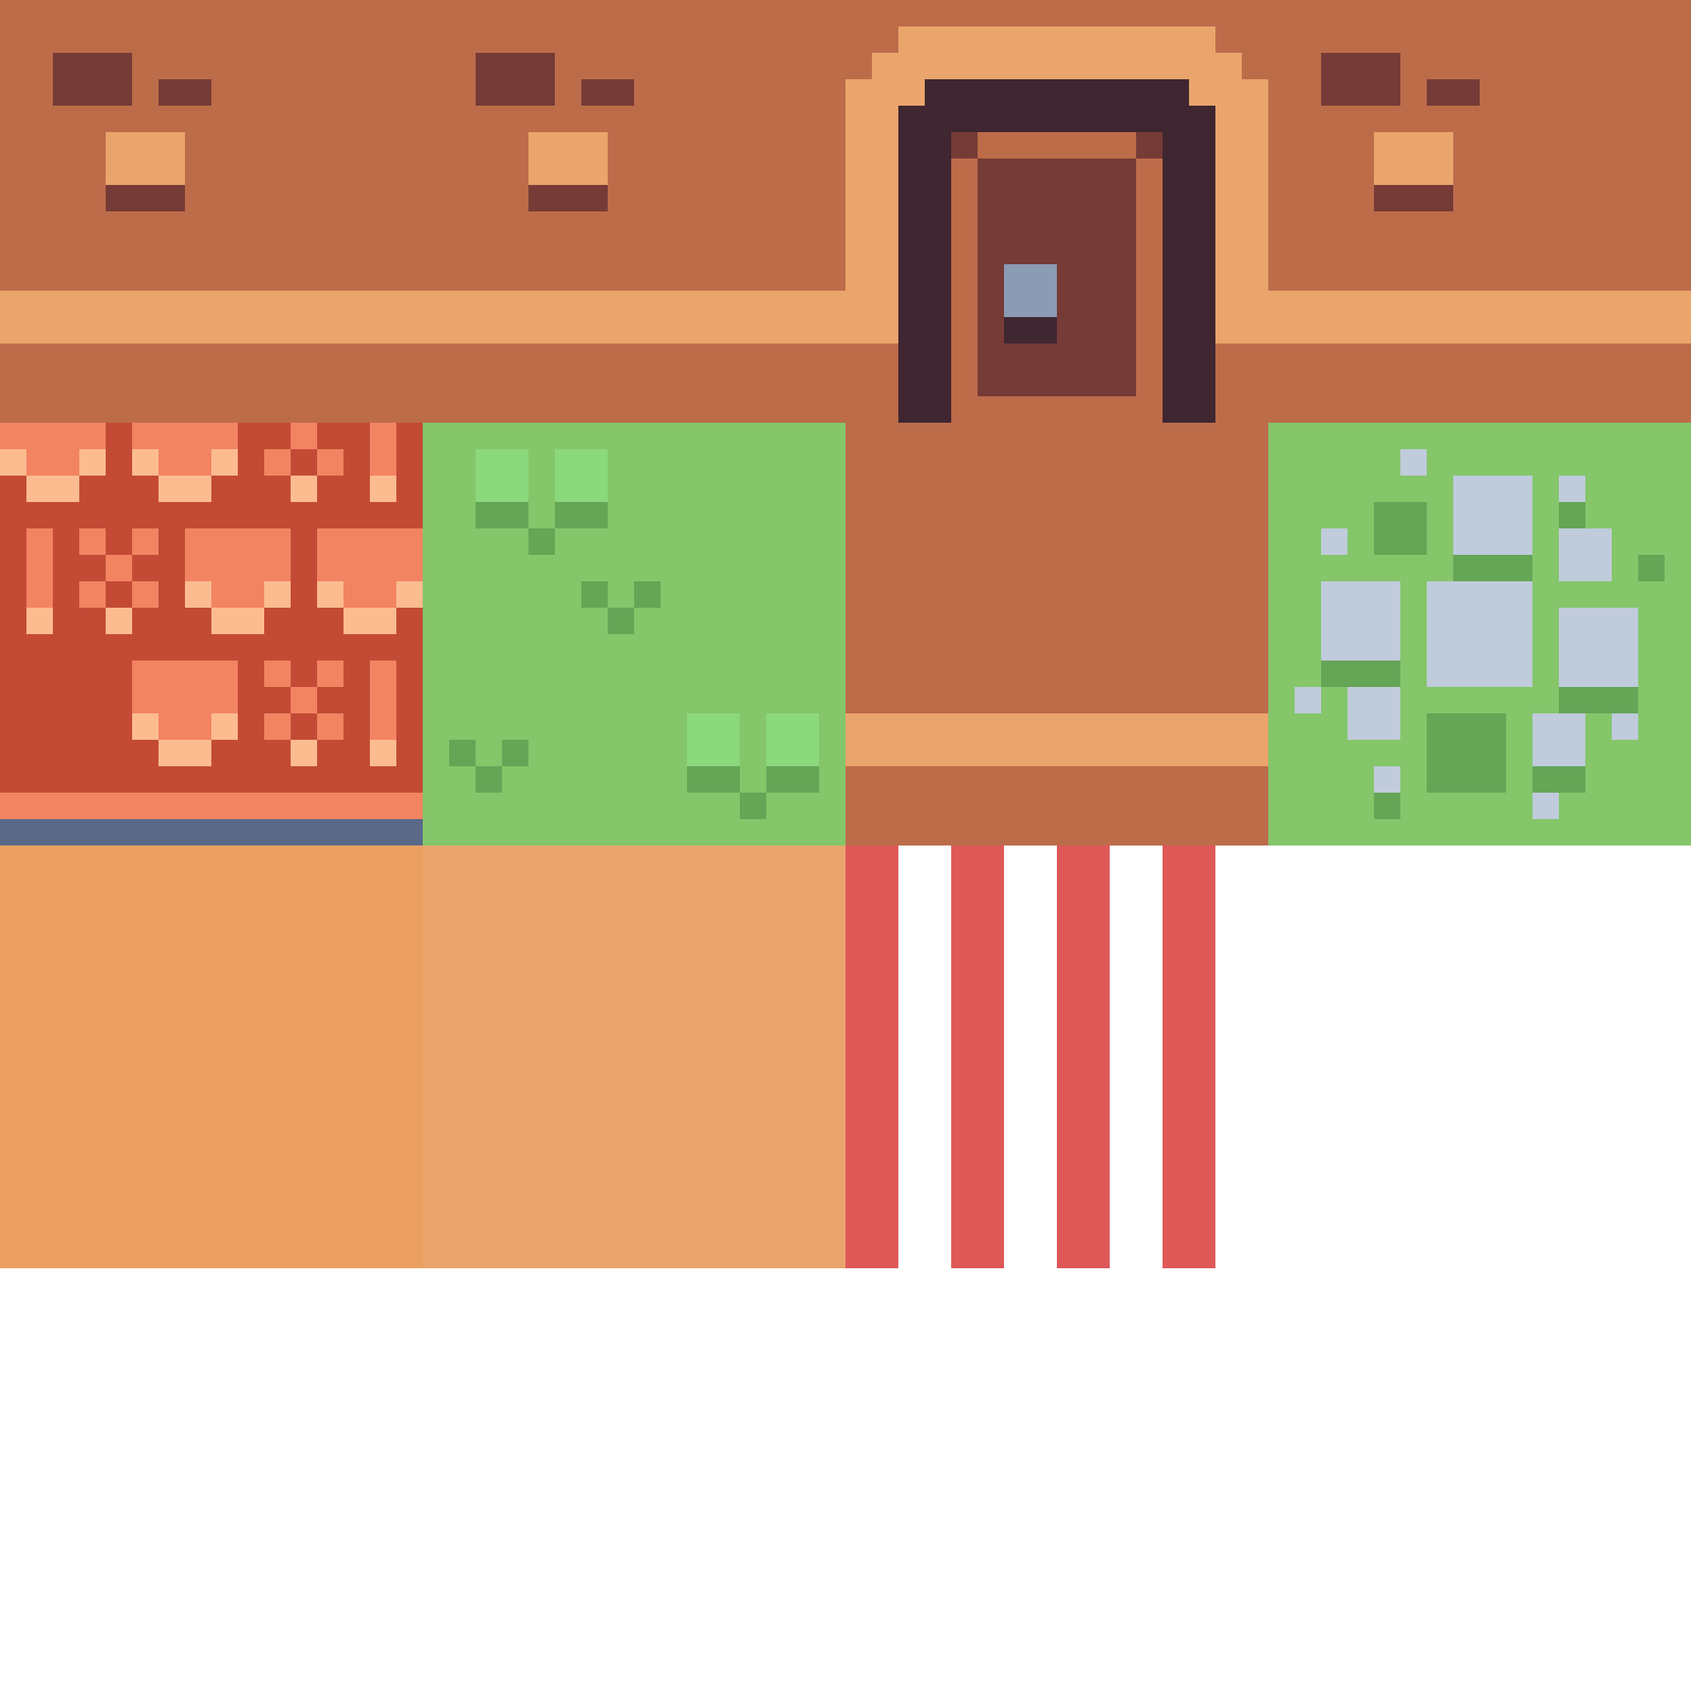
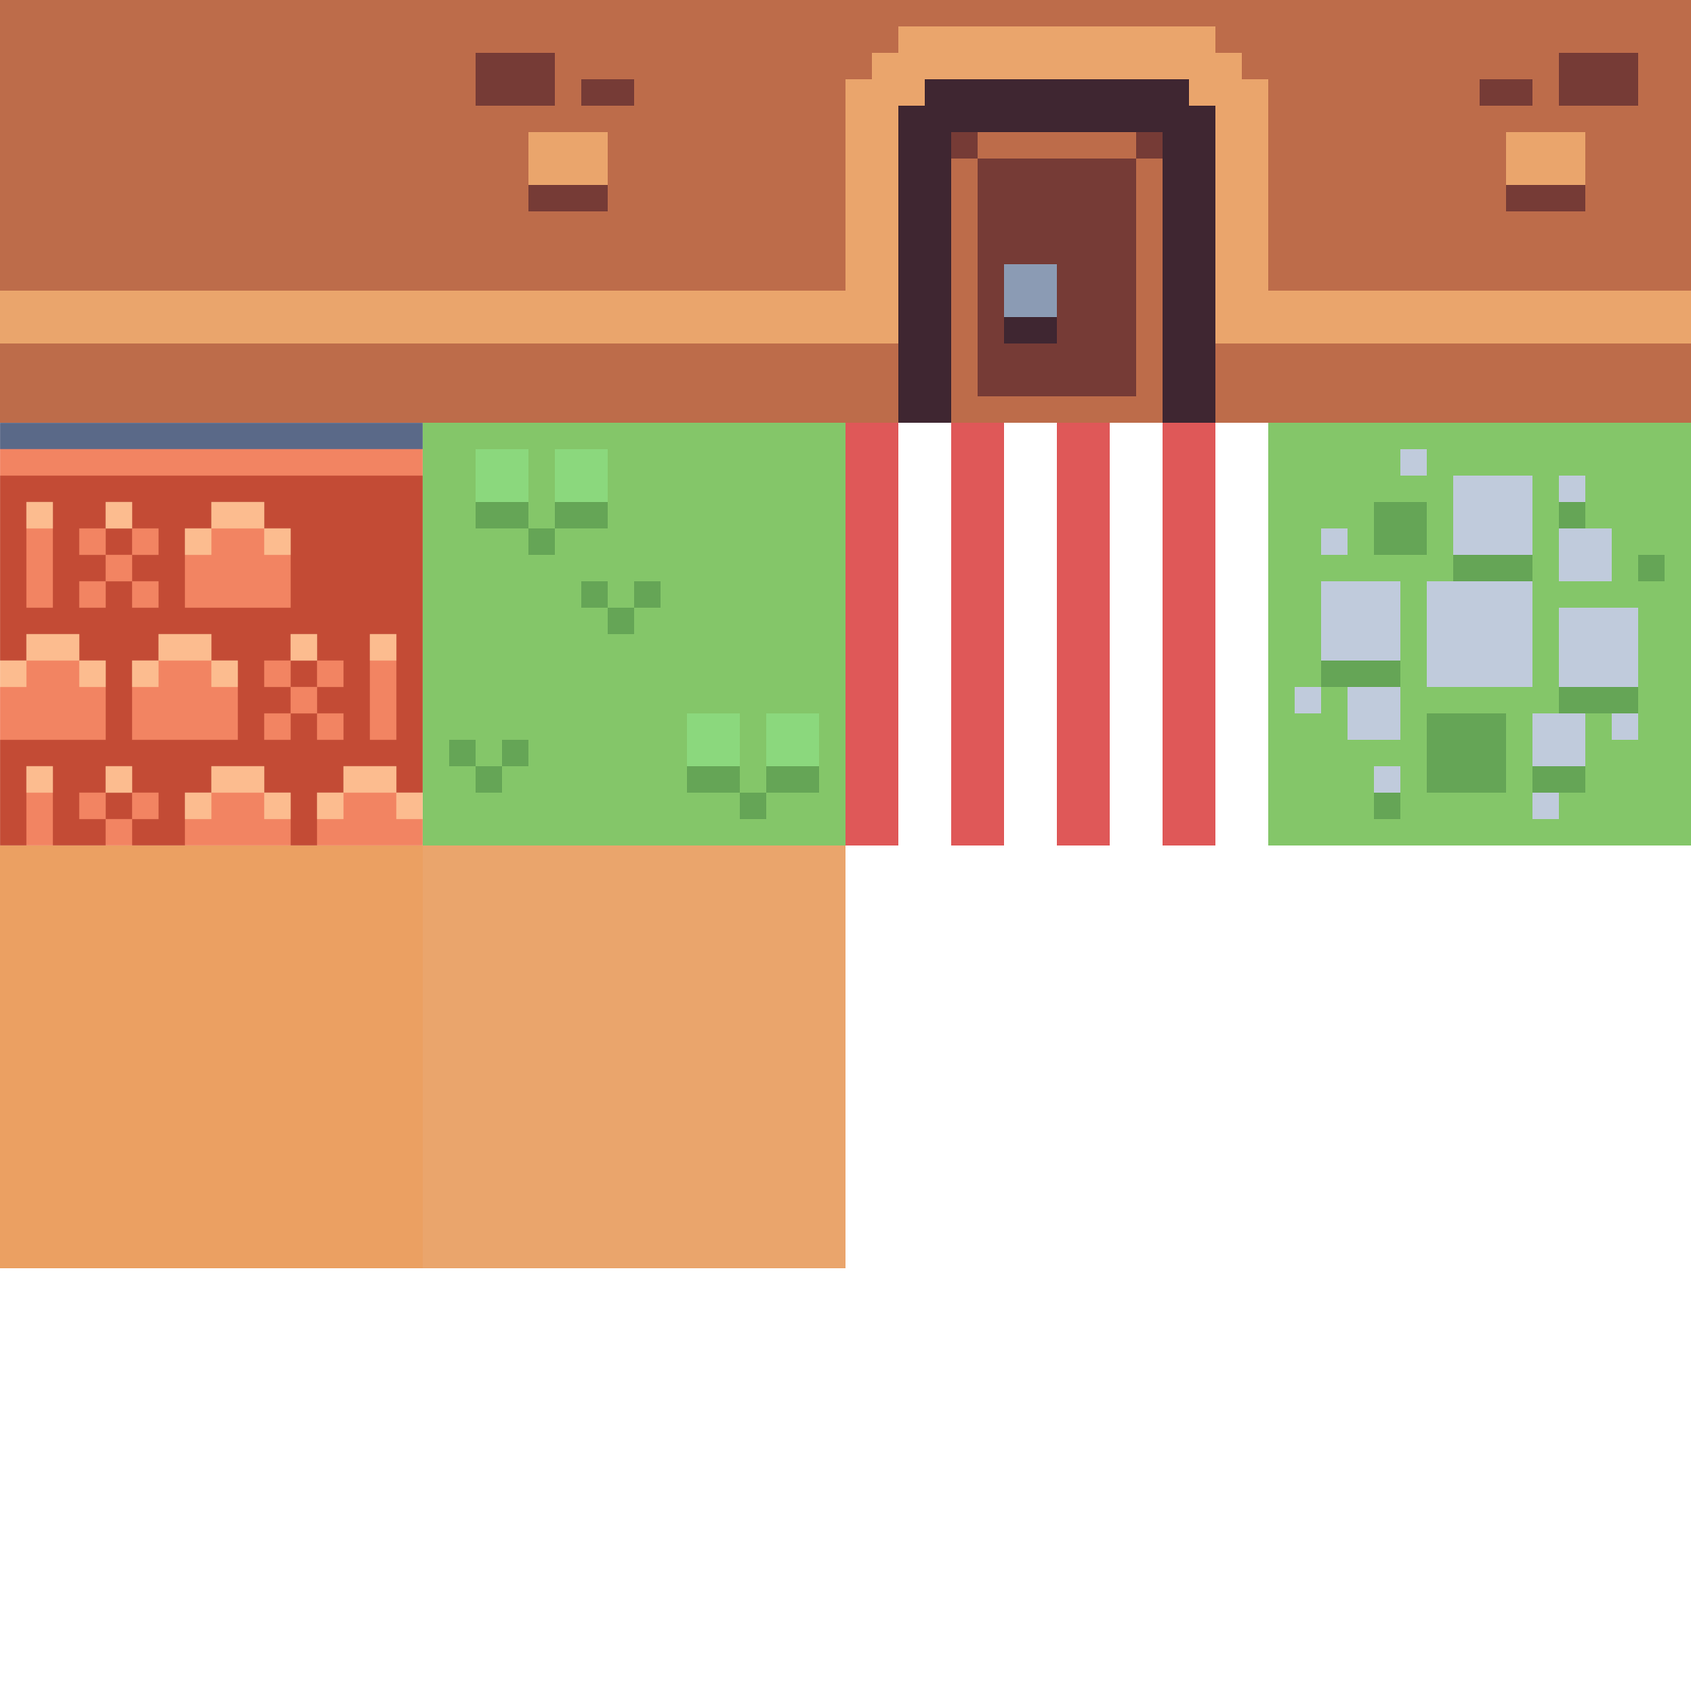
klar

diff --git a/Assets/Pieces/Path.cs b/Assets/Pieces/Path.cs
@@ -150,10 +150,14 @@ public partial class TileBuilder
         InvertedCorner(ref builder, new(0f, 0f, 0.175f, 0.175f), 3);
     }
     
-    private void PizzaSlices(ref MeshBuilder builder, int numSlices, float startAngle) {
-        
+    private void PizzaSlices(ref MeshBuilder builder, int numSlices, float startAngle)
+    {
+
+        int counter = 0;
         for (float i = startAngle - 22.5f; i < startAngle - 22.5f + numSlices * 45 ; i += 45)
         {
+            
+            
             builder.VertexMatrix = Matrix4x4.Rotate(Quaternion.AngleAxis(i, Vector3.up));
             builder.TextureMatrix =
                 Matrix4x4.Translate(new(0f, 0.25f, 0f)) *
@@ -172,10 +176,12 @@ public partial class TileBuilder
 
             Vector3 normalInner = Vector3.Cross(-tangentInner, binormalInner);
 
-            int a = builder.AddVertex(bottomLeftInner, normalInner, new(0, 0), 0.02f);
-            int b = builder.AddVertex(topLeftInner, normalInner, new(0, 1), 0.02f);
-            int c = builder.AddVertex(topRightInner, normalInner, new(1, 1), 0.02f);
-            int d = builder.AddVertex(bottomRightInner, normalInner, new(1, 0), 0.02f);
+            float aspectInner = 0.115f;
+            
+            int a = builder.AddVertex(bottomLeftInner, normalInner, new(0, 0));
+            int b = builder.AddVertex(topLeftInner, normalInner, new(0, aspectInner));
+            int c = builder.AddVertex(topRightInner, normalInner, new(1, aspectInner));
+            int d = builder.AddVertex(bottomRightInner, normalInner, new(1, 0));
 
             builder.AddQuad(a, b, c, d);
 
@@ -189,17 +195,21 @@ public partial class TileBuilder
 
             Vector3 normalOuter = Vector3.Cross(tangentOuter, binormalOuter);
 
-            int e = builder.AddVertex(bottomRightOuter, normalOuter, new(0, 0), 0.02f);
-            int f = builder.AddVertex(topRightOuter, normalOuter, new(0, 1), 0.02f);
-            int g = builder.AddVertex(topLeftOuter, normalOuter, new(1, 1), 0.02f);
-            int h = builder.AddVertex(bottomLeftOuter, normalOuter, new(1, 0), 0.02f);
+            float aspectOuter = 0.138f;
+            
+            int e = builder.AddVertex(bottomRightOuter, normalOuter, new(0, 0));
+            int f = builder.AddVertex(topRightOuter, normalOuter, new(0, aspectOuter));
+            int g = builder.AddVertex(topLeftOuter, normalOuter, new(1, aspectOuter));
+            int h = builder.AddVertex(bottomLeftOuter, normalOuter, new(1, 0));
 
             builder.AddQuad(e, f, g, h);
 
-            int ii = builder.AddVertex(topRightInner, new(0, 1, 0), new(0, 0), 0.02f);
-            int j = builder.AddVertex(topLeftInner, new(0, 1, 0), new(0, 1), 0.02f);
-            int k = builder.AddVertex(topLeftOuter, new(0, 1, 0), new(1, 1), 0.02f);
-            int l = builder.AddVertex(topRightOuter, new(0, 1, 0), new(1, 0), 0.02f);
+            float aspectTop = 0.119f;
+            
+            int ii = builder.AddVertex(topRightInner, new(0, 1, 0), new(0, 0));
+            int j = builder.AddVertex(topLeftInner, new(0, 1, 0), new(0, 1));
+            int k = builder.AddVertex(topLeftOuter, new(0, 1, 0), new(aspectTop, 1));
+            int l = builder.AddVertex(topRightOuter, new(0, 1, 0), new(aspectTop, 0));
 
             builder.AddQuad(ii, j, k, l);
 
@@ -208,11 +218,24 @@ public partial class TileBuilder
                 Matrix4x4.Scale(new(0.25f, 0.25f, 1))
                 ;
 
-            int m = builder.AddVertex(new(0, 0.0001f, 0), new(0, 1, 0), new(0, 0), 0.02f);
-            int n = builder.AddVertex(bottomLeftOuter, new(0, 1, 0), new(0, 1), 0.02f);
-            int o = builder.AddVertex(bottomRightOuter, new(0, 1, 0), new(1, 1), 0.02f);
+            float angle1 = (90 - (counter * 45)) * Mathf.Deg2Rad;
+            float angle2 = (45 - (counter * 45)) * Mathf.Deg2Rad;
+
+            Vector2 uvbl = new Vector2(Mathf.Cos(angle1) / 2, Mathf.Sin(angle1) / 2);
+            Vector2 uvbr = new Vector2(Mathf.Cos(angle2) / 2, Mathf.Sin(angle2) / 2);
+            
+            Matrix4x4 adjust = Matrix4x4.Translate(new(0.5f, 0.5f));
+            
+            
+            int m = builder.AddVertex(new(0, 0.0001f, 0), new(0, 1, 0), new(0.5f, 0.5f));
+            int n = builder.AddVertex(bottomLeftInner, new(0, 1, 0), adjust.MultiplyPoint(uvbl));
+            int o = builder.AddVertex(bottomRightInner, new(0, 1, 0), adjust.MultiplyPoint(uvbr));
 
             builder.AddTriangle(m, n, o);
+            
+            
+            
+            counter++;
         }
     }
 
@@ -228,7 +251,7 @@ public partial class TileBuilder
             Matrix4x4.Translate(new(rect.x, 0.0001f, rect.y)) *
             Matrix4x4.Scale(new(rect.width, 1f, rect.height))
             ;
-        Quad floor = Square1x1(ref builder, 0.02f);
+        Quad floor = Square1x1(ref builder, rect.width / rect.height);
         builder.AddQuad(floor);
 
         // walls
@@ -268,22 +291,25 @@ public partial class TileBuilder
 
             Vector3 normalOuter = Vector3.Cross(-tangentOuter, binormalOuter);
 
-            int a = builder.AddVertex(bottomLeftInner, normalInner, new(0, 0), 0.02f);
-            int b = builder.AddVertex(topLeftInner, normalInner, new(0, 1), 0.02f);
-            int c = builder.AddVertex(topRightInner, normalInner, new(1, 1), 0.02f);
-            int d = builder.AddVertex(bottomRightInner, normalInner, new(1, 0), 0.02f);
+            float aspectSides = rect.width / 0.012f;
+            float aspectTop = rect.width / 0.02f;
+            
+            int a = builder.AddVertex(bottomLeftInner, normalInner, new(0, 0));
+            int b = builder.AddVertex(topLeftInner, normalInner, new(0, 1 / aspectSides));
+            int c = builder.AddVertex(topRightInner, normalInner, new(1, 1 / aspectSides));
+            int d = builder.AddVertex(bottomRightInner, normalInner, new(1, 0));
             builder.AddQuad(d, c, b, a);
 
-            int e = builder.AddVertex(bottomRightOuter, normalOuter, new(1, 0), 0.02f);
-            int f = builder.AddVertex(topRightOuter, normalOuter, new(1, 1), 0.02f);
-            int g = builder.AddVertex(topLeftOuter, normalOuter, new(0, 1), 0.02f);
-            int h = builder.AddVertex(bottomLeftOuter, normalOuter, new(0, 0), 0.02f);
+            int e = builder.AddVertex(bottomRightOuter, normalOuter, new(1, 0));
+            int f = builder.AddVertex(topRightOuter, normalOuter, new(1, 1 / aspectSides));
+            int g = builder.AddVertex(topLeftOuter, normalOuter, new(0, 1 / aspectSides));
+            int h = builder.AddVertex(bottomLeftOuter, normalOuter, new(0, 0));
             builder.AddQuad(h, g, f, e);
 
-            int ii = builder.AddVertex(topLeftInner, Vector3.up, new(1, 0), 0.02f);
-            int j = builder.AddVertex(topLeftOuter, Vector3.up, new(1, 1), 0.02f);
-            int k = builder.AddVertex(topRightOuter, Vector3.up, new(0, 1), 0.02f);
-            int l = builder.AddVertex(topRightInner, Vector3.up, new(0, 0), 0.02f);
+            int ii = builder.AddVertex(topLeftInner, Vector3.up, new(1, 0));
+            int j = builder.AddVertex(topLeftOuter, Vector3.up, new(1, 1 / aspectTop));
+            int k = builder.AddVertex(topRightOuter, Vector3.up, new(0, 1 / aspectTop));
+            int l = builder.AddVertex(topRightInner, Vector3.up, new(0, 0));
             builder.AddQuad(l, k, j, ii);
 
         }
@@ -301,7 +327,7 @@ public partial class TileBuilder
             Matrix4x4.Translate(new(rect.x, 0.0001f, rect.y)) *
             Matrix4x4.Scale(new(rect.width, 1f, rect.height))
             ;
-        Quad floor = Square1x1(ref builder, 0.02f);
+        Quad floor = Square1x1(ref builder);
         builder.AddQuad(floor);
         
         // Wall
@@ -322,15 +348,15 @@ public partial class TileBuilder
 
         Vector3 normal = Vector3.Cross(-tangent, binormal);
         
-        int a = builder.AddVertex(bottomLeft, normal, new(0, 0), 0.02f);
-        int b = builder.AddVertex(topLeft, normal, new(0, 1), 0.02f);
-        int c = builder.AddVertex(topRight, normal, new(1, 1), 0.02f);
-        int d = builder.AddVertex(bottomRight, normal, new(1, 0), 0.02f);
+        int a = builder.AddVertex(bottomLeft, normal, new(0, 0));
+        int b = builder.AddVertex(topLeft, normal, new(0, 0.012f));
+        int c = builder.AddVertex(topRight, normal, new(0.042f, 0.012f));
+        int d = builder.AddVertex(bottomRight, normal, new(0.042f, 0));
         builder.AddQuad(a, b, c, d);
-
-        int e = builder.AddVertex(topLeft, Vector3.up, new(0, 0), 0.02f);
-        int f = builder.AddVertex(new(rect.width, 0.01f, rect.height), Vector3.up, new(0, 1), 0.02f);
-        int g = builder.AddVertex(topRight, Vector3.up, new(1, 0), 0.02f);
+        
+        int e = builder.AddVertex(topLeft, Vector3.up, new(0, 0));
+        int f = builder.AddVertex(new(rect.width, 0.01f, rect.height), Vector3.up, new(0, 0.02f));
+        int g = builder.AddVertex(topRight, Vector3.up, new(0.02f, 0));
         
         builder.AddTriangle(e, f, g);
 

diff --git a/Assets/Pieces/Market.cs b/Assets/Pieces/Market.cs
@@ -43,12 +43,12 @@ public partial class TileBuilder
             Matrix4x4.Translate(position) *
             Matrix4x4.Rotate(Quaternion.AngleAxis(rotation, Vector3.down));
         builder.TextureMatrix =
-            Matrix4x4.Translate(new(0.5f, 0.625f)) *
+            Matrix4x4.Translate(new(0f, 0.875f)) *
             Matrix4x4.Scale(new(0.25f, 0.125f));
         
         int a = builder.AddVertex(new(-0.15f, 0f, -0.075f), Vector3.back, new(0, 0));
-        int b = builder.AddVertex(new(-0.15f, 0.05f, -0.075f), Vector3.back, new(0, 1));
-        int c = builder.AddVertex(new(0.15f, 0.05f, -0.075f), Vector3.back, new(1, 1));
+        int b = builder.AddVertex(new(-0.15f, 0.05f, -0.075f), Vector3.back, new(0, 0.33f));
+        int c = builder.AddVertex(new(0.15f, 0.05f, -0.075f), Vector3.back, new(1, 0.33f));
         int d = builder.AddVertex(new(0.15f, 0f, -0.075f), Vector3.back, new(1, 0));
         
         builder.AddDualFacedQuad(a, b, c, d);
@@ -56,8 +56,8 @@ public partial class TileBuilder
         
         // top board
         int e = builder.AddVertex(new(-0.15f, 0.05f, -0.075f), Vector3.up, new(0, 0));
-        int f = builder.AddVertex(new(-0.15f, 0.05f, -0.01f), Vector3.up, new(0, 1));
-        int g = builder.AddVertex(new(0.15f, 0.05f, -0.01f), Vector3.up, new(1, 1));
+        int f = builder.AddVertex(new(-0.15f, 0.05f, -0.01f), Vector3.up, new(0, 0.43f));
+        int g = builder.AddVertex(new(0.15f, 0.05f, -0.01f), Vector3.up, new(1, 0.43f));
         int h = builder.AddVertex(new(0.15f, 0.05f, -0.075f), Vector3.up, new(1, 0));
 
         builder.AddDualFacedQuad(e, f, g, h);
@@ -66,8 +66,8 @@ public partial class TileBuilder
         for (int i = -1; i < 2; i += 2)
         {
             int ii = builder.AddVertex(new(-0.15f * i, 0f, 0.075f), Vector3.left, new(0, 0));
-            int j = builder.AddVertex(new(-0.15f * i, 0.05f, 0.075f), Vector3.left, new(0, 1));
-            int k = builder.AddVertex(new(-0.15f * i, 0.05f, -0.075f), Vector3.left, new(1, 1));
+            int j = builder.AddVertex(new(-0.15f * i, 0.05f, 0.075f), Vector3.left, new(0, 0.66f));
+            int k = builder.AddVertex(new(-0.15f * i, 0.05f, -0.075f), Vector3.left, new(1, 0.66f));
             int l = builder.AddVertex(new(-0.15f * i, 0f, -0.075f), Vector3.left, new(1, 0));
             builder.AddDualFacedQuad(ii, j, k, l);
         }
@@ -75,7 +75,7 @@ public partial class TileBuilder
         
         // awning
         builder.TextureMatrix = 
-            Matrix4x4.Translate(new(0.5f, 0.25f)) *
+            Matrix4x4.Translate(new(0.5f, 0.5f)) *
             Matrix4x4.Scale(new(0.25f, 0.25f));
         
         Vector3 awningBL = new(-0.18f, 0.13f, 0.1f);
@@ -89,14 +89,14 @@ public partial class TileBuilder
 
 
         int m = builder.AddVertex(awningBL, normal, new(0, 0));
-        int n = builder.AddVertex(awningTL, normal, new(0, 1));
-        int o = builder.AddVertex(awningTR, normal, new(1, 1));
+        int n = builder.AddVertex(awningTL, normal, new(0, 0.566f));
+        int o = builder.AddVertex(awningTR, normal, new(1, 0.566f));
         int p = builder.AddVertex(awningBR, normal, new(1, 0));
 
         builder.AddDualFacedQuad(m, n, o, p);
         
         builder.TextureMatrix =
-            Matrix4x4.Translate(new(0.5f, 0.625f)) *
+            Matrix4x4.Translate(new(0f, 0.875f)) *
             Matrix4x4.Scale(new(0.25f, 0.125f));
         
         Pole(ref builder, new(-0.15f, 0, -0.075f), 0.164f);
@@ -116,8 +116,8 @@ public partial class TileBuilder
             builder.VertexMatrix = Matrix4x4.Rotate(Quaternion.AngleAxis(-90 * i, Vector3.up));
             int a = builder.AddVertex(new(-0.003f, 0f, -0.003f), Vector3.back, new(0, 0));
             int b = builder.AddVertex(new(-0.003f, height, -0.003f), Vector3.back, new(0, 1));
-            int c = builder.AddVertex(new(0.003f, height, -0.003f), Vector3.back, new(1, 1));
-            int d = builder.AddVertex(new(0.003f, 0f, -0.003f), Vector3.back, new(1, 0));
+            int c = builder.AddVertex(new(0.003f, height, -0.003f), Vector3.back, new(0.006f / height, 1));
+            int d = builder.AddVertex(new(0.003f, 0f, -0.003f), Vector3.back, new(0.006f / height, 0));
             builder.AddQuad(a, b, c, d);
         }
         builder.CloseVertexGroup();

diff --git a/Assets/Pieces/House.cs b/Assets/Pieces/House.cs
@@ -38,15 +38,15 @@ public partial class TileBuilder
         {
             builder.VertexMatrix = 
                 Matrix4x4.Rotate(Quaternion.AngleAxis(i * 180, Vector3.up)) *
-                Matrix4x4.Translate(new(-0.25f, 0.2f, -0.25f)) *
+                Matrix4x4.Translate(new(0f, 0.45f, -0.25f)) *
                 Matrix4x4.Rotate(Quaternion.AngleAxis(45, Vector3.forward)) *
-                Matrix4x4.Scale(new(0.25f * Mathf.Sqrt(2), 1, 0.5f));
-            builder.TextureMatrix = 
-                Matrix4x4.Translate(new(0.25f, 0.5f, 0f)) *
-                Matrix4x4.Scale(new(0.25f, 0.25f, 1f)) *
-                Matrix4x4.Rotate(Quaternion.AngleAxis(90, new(0, 0, 1f)))
+                Matrix4x4.Rotate(Quaternion.AngleAxis(90, Vector3.down)) *
+                Matrix4x4.Scale(new(0.5f, 1, 0.25f * Mathf.Sqrt(2)));
+            builder.TextureMatrix =
+                Matrix4x4.Translate(new(0f, 0.5f, 0f)) *
+                Matrix4x4.Scale(new(0.25f, 0.25f, 1f));
                 ;
-            Quad roof = Square1x1(ref builder);
+            Quad roof = Square1x1(ref builder, Mathf.Sqrt(2));
             builder.AddQuad(roof, false);
 
             
@@ -57,11 +57,11 @@ public partial class TileBuilder
                 Matrix4x4.Scale(new(0.5f, 0.5f, 1f)) *
                 Matrix4x4.Rotate(Quaternion.AngleAxis(90, Vector3.left));
             builder.TextureMatrix = 
-                Matrix4x4.Translate(new(0.5f, 0.5f, 0f)) *
+                Matrix4x4.Translate(new(0f, 0.75f, 0f)) *
                 Matrix4x4.Scale(new(0.25f, 0.25f, 1f))
                 ;
             int a = builder.AddVertex(new(0, 0, 0), new(0, 1, 0), new(0, 0));
-            int b = builder.AddVertex(new(0.5f, 0, 0.5f), new(0, 1, 0), new(0.5f, 1f));
+            int b = builder.AddVertex(new(0.5f, 0, 0.5f), new(0, 1, 0), new(0.5f, 0.5f));
             int c = builder.AddVertex(new(1, 0, 0), new(0, 1, 0), new(1, 0));
             builder.AddTriangle(a, b, c);
 

diff --git a/Assets/TileBuilder.cs b/Assets/TileBuilder.cs
@@ -8,11 +8,11 @@ public partial class TileBuilder
     
     private static Matrix4x4 translateToCenter = Matrix4x4.Translate(new(-0.5f, 0, -0.5f));
 
-    private static Quad Square1x1(ref MeshBuilder builder, float uvTweak = 0f)
+    private static Quad Square1x1(ref MeshBuilder builder, float aspect = 1, float uvTweak = 0f)
     {
         int w00 = builder.AddVertex(new(0, 0, 0), new(0, 1, 0), new(0, 0), uvTweak);
-        int w01 = builder.AddVertex(new(0, 0, 1), new(0, 1, 0), new(0, 1), uvTweak);
-        int w11 = builder.AddVertex(new(1, 0, 1), new(0, 1, 0), new(1, 1), uvTweak);
+        int w01 = builder.AddVertex(new(0, 0, 1), new(0, 1, 0), new(0, 1 / aspect), uvTweak);
+        int w11 = builder.AddVertex(new(1, 0, 1), new(0, 1, 0), new(1, 1 / aspect), uvTweak);
         int w10 = builder.AddVertex(new(1, 0, 0), new(0, 1, 0), new(1, 0), uvTweak);
         return new Quad(w00, w01, w11, w10);
     }

diff --git a/Assets/MeshBuilder.cs b/Assets/MeshBuilder.cs
@@ -80,14 +80,14 @@ public int AddVertex(Vector3 position, Vector3 normal, Vector2 uv, float tweak =
     }
 
     public void Build(ref Mesh mesh) {
-        
-        mesh.RecalculateTangents(); // kanske????
-        
+
         mesh.Clear();
         mesh.SetVertices(vertices);
         mesh.SetNormals(normals);
         mesh.SetUVs(0, uvs);
         mesh.SetIndices(triangles, MeshTopology.Triangles, 0);
+        mesh.RecalculateTangents();
+        
         mesh.MarkModified();
     }
 

diff --git a/Assets/Pieces/Ground.cs b/Assets/Pieces/Ground.cs
@@ -21,7 +21,7 @@ public partial class TileBuilder
                 Matrix4x4.Scale(new(0.25f, 0.25f, 1f))
                 ;
         }
-        Quad ground = Square1x1(ref builder, 0.02f);
+        Quad ground = Square1x1(ref builder, 1, 0.01f);
         builder.AddQuad(ground, false);
     }
 }
